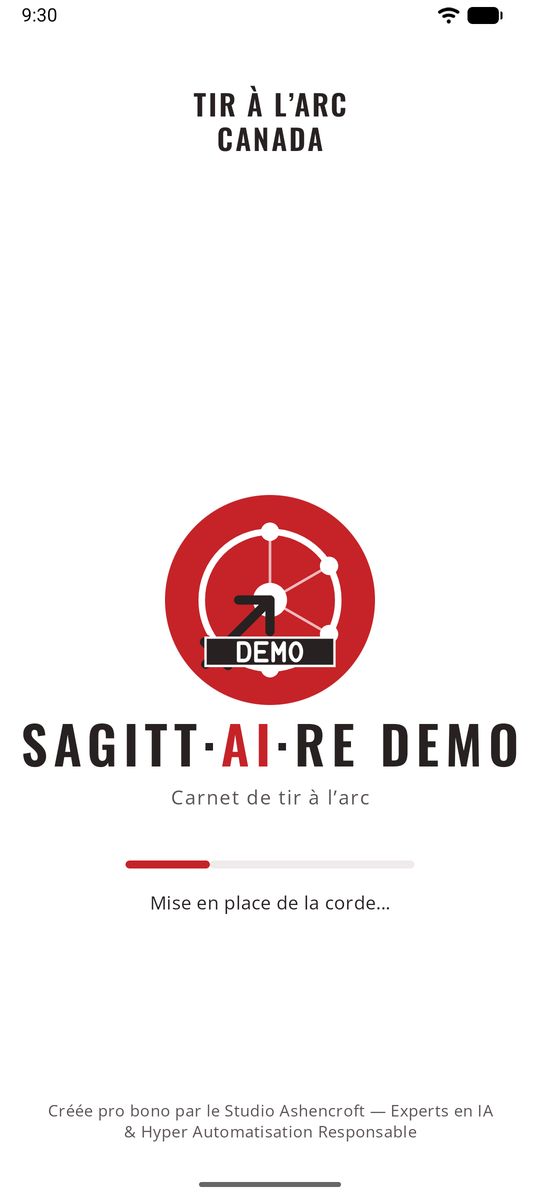
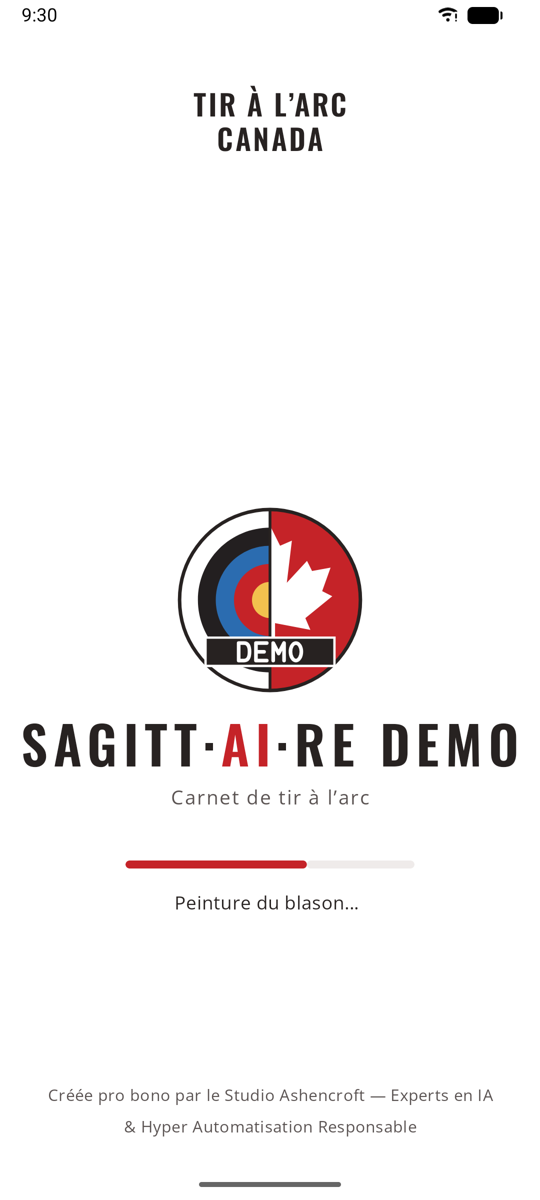
Update the sagitt·AI·re site from the app repository at 5aeb2c3

diff --git a/sagittaire/docs/icon.fr.md b/sagittaire/docs/icon.fr.md
@@ -1,6 +1,6 @@
 # L'icône
 
-L'icône d'aujourd'hui est rouge Tir à l'arc Canada : un anneau de cible avec quatre neurones reliés au centre (l'IA), et le signe du Sagittaire, dont la flèche se plante dans le centre. Avant elle, l'application avait une cible de bois sculptée, à la manière nordique.
+L'icône d'aujourd'hui est moitié cible, moitié feuille d'érable : un cercle dont la moitié gauche est une cible World Archery et la moitié droite une feuille d'érable blanche sur le rouge de Tir à l'arc Canada. Avant elle, il y a eu un symbole rouge avec des neurones et le signe du Sagittaire, et une cible de bois sculptée, à la manière nordique.
 
 ## Son évolution
 
@@ -25,24 +25,28 @@ L'icône d'aujourd'hui est rouge Tir à l'arc Canada : un anneau de cible avec 
 ![L'icône d'aujourd'hui : sur le rouge de Tir à l'arc Canada, un anneau de cible blanc avec quatre neurones reliés au centre, et le signe du Sagittaire en noir, dont la flèche finit dans le centre blanc.](images/icons/5-archery-canada.png){ width="180" }
 <figcaption><b>5. Tir à l'arc Canada.</b> sagitt·AI·re devient l'application de Tir à l'arc Canada : un nouveau symbole, dans son rouge.</figcaption>
 </figure>
+<figure markdown>
+![L'icône d'aujourd'hui : un cercle dont la moitié gauche est une cible (blanc, noir, bleu, rouge et or) et la moitié droite une feuille d'érable blanche sur rouge.](images/icons/6-target-leaf.png){ width="180" }
+<figcaption><b>6. Cible et feuille d'érable.</b> Le tir à l'arc et le Canada, moitié-moitié, qui se rejoignent au milieu.</figcaption>
+</figure>
 </div>
 
 ## L'icône d'aujourd'hui
 
-- **L'anneau de cible**, pour le tir à l'arc.
-- **Quatre neurones** sur l'anneau, reliés au centre : l'IA qui lit votre cible.
-- **Le signe du Sagittaire** ♐, l'archer du zodiaque, qui donne son nom à l'application ; sa flèche finit dans le centre.
-- **Le rouge de Tir à l'arc Canada** derrière, du blanc et du noir pour le symbole. L'écran de lancement est blanc, comme le site de Tir à l'arc Canada.
+- **La moitié gauche** est une cible World Archery : blanc, noir, bleu, rouge et or.
+- **La moitié droite** est une feuille d'érable blanche sur le rouge de Tir à l'arc Canada.
+- Elles se rejoignent sur la ligne du milieu : la cible et la feuille forment un seul cercle.
+- **Un fond blanc**, comme le site de Tir à l'arc Canada, et l'écran de lancement est blanc aussi.
 
 ## Les variantes
 
 <div class="shots" markdown>
 <figure markdown>
-![L'icône thématique d'une seule couleur, teintée par Android selon le fond d'écran.](images/icons/5-archery-canada-themed.png){ width="180" }
+![L'icône thématique d'une seule couleur, teintée par Android selon le fond d'écran.](images/icons/6-target-leaf-themed.png){ width="180" }
 <figcaption><b>Icône thématique.</b> Une seule couleur, teintée par Android 13 et plus selon votre fond d'écran.</figcaption>
 </figure>
 <figure markdown>
-![L'icône de l'édition démo : l'icône rouge avec un bandeau DEMO noir.](images/icons/5-archery-canada-demo.png){ width="180" }
+![L'icône de l'édition démo : la cible et la feuille avec un bandeau DEMO noir.](images/icons/6-target-leaf-demo.png){ width="180" }
 <figcaption><b>sagitt·AI·re Demo.</b> Un bandeau DEMO, pour ne pas la confondre avec la vraie application.</figcaption>
 </figure>
 </div>

diff --git a/sagittaire/docs/icon.de.md b/sagittaire/docs/icon.de.md
@@ -1,6 +1,6 @@
 # Das App-Symbol { #the-app-icon }
 
-Das heutige Symbol ist rot wie Archery Canada: ein Scheibenring mit vier Neuronen, die mit der Mitte verbunden sind (die KI), und das Zeichen des Schützen, dessen Pfeil in der Mitte landet. Davor hatte die App eine geschnitzte Holzscheibe im nordischen Stil.
+Das heutige Symbol ist halb Scheibe, halb Ahornblatt: ein Kreis, dessen linke Hälfte eine World-Archery-Scheibe ist und dessen rechte Hälfte ein weißes Ahornblatt auf dem Rot von Archery Canada. Davor gab es ein rotes Zeichen mit Neuronen und dem Zeichen des Schützen und eine geschnitzte Holzscheibe im nordischen Stil.
 
 ## Wie es entstand { #how-it-evolved }
 
@@ -25,24 +25,28 @@ Das heutige Symbol ist rot wie Archery Canada: ein Scheibenring mit vier Neurone
 ![Das heutige Symbol: auf dem Rot von Archery Canada ein weißer Scheibenring mit vier Neuronen, die mit der Mitte verbunden sind, und das Zeichen des Schützen in Schwarz, dessen Pfeil in der weißen Mitte endet.](images/icons/5-archery-canada.png){ width="180" }
 <figcaption><b>5. Archery Canada.</b> sagitt·AI·re wird die App von Archery Canada: ein neues Zeichen, in ihrem Rot.</figcaption>
 </figure>
+<figure markdown>
+![Das heutige Symbol: ein Kreis, links eine halbe Scheibe (Weiß, Schwarz, Blau, Rot und Gold), rechts ein halbes weißes Ahornblatt auf Rot.](images/icons/6-target-leaf.png){ width="180" }
+<figcaption><b>6. Scheibe und Ahornblatt.</b> Bogenschießen und Kanada, halb und halb, die sich in der Mitte treffen.</figcaption>
+</figure>
 </div>
 
 ## Das heutige Symbol { #todays-icon }
 
-- **Der Scheibenring** steht für das Bogenschießen.
-- **Vier Neuronen** auf dem Ring, mit der Mitte verbunden: die KI, die deine Scheibe liest.
-- **Das Zeichen des Schützen** ♐, des Bogenschützen im Tierkreis, nach dem die App heißt; sein Pfeil endet in der Mitte.
-- **Das Rot von Archery Canada** dahinter, Weiß und Schwarz für das Zeichen. Der Startbildschirm ist weiß, wie die Website von Archery Canada.
+- **Die linke Hälfte** ist eine World-Archery-Scheibe: Weiß, Schwarz, Blau, Rot und Gold.
+- **Die rechte Hälfte** ist ein weißes Ahornblatt auf dem Rot von Archery Canada.
+- Sie treffen sich auf der Mittellinie, sodass Scheibe und Blatt einen Kreis bilden.
+- **Ein weißer Hintergrund**, wie die Website von Archery Canada, und auch der Startbildschirm ist weiß.
 
 ## Varianten { #variants }
 
 <div class="shots" markdown>
 <figure markdown>
-![Das einfarbige Designsymbol, von Android passend zum Hintergrundbild eingefärbt.](images/icons/5-archery-canada-themed.png){ width="180" }
+![Das einfarbige Designsymbol, von Android passend zum Hintergrundbild eingefärbt.](images/icons/6-target-leaf-themed.png){ width="180" }
 <figcaption><b>Designsymbol.</b> Einfarbig, von Android 13+ passend zu deinem Hintergrundbild eingefärbt.</figcaption>
 </figure>
 <figure markdown>
-![Das Symbol der Demo-Ausgabe: das rote Symbol mit einem schwarzen DEMO-Banner.](images/icons/5-archery-canada-demo.png){ width="180" }
+![Das Symbol der Demo-Ausgabe: Scheibe und Blatt mit einem schwarzen DEMO-Banner.](images/icons/6-target-leaf-demo.png){ width="180" }
 <figcaption><b>sagitt·AI·re Demo.</b> Ein DEMO-Banner, damit sie nicht mit der echten App verwechselt werden kann.</figcaption>
 </figure>
 </div>

diff --git a/sagittaire/docs/icon.es.md b/sagittaire/docs/icon.es.md
@@ -1,6 +1,6 @@
 # El icono de la app { #the-app-icon }
 
-El icono de hoy es rojo Archery Canada: un anillo de diana con cuatro neuronas unidas a su centro (la IA), y el signo de Sagitario, cuya flecha acaba en el centro. Antes, la app tenía una diana de madera tallada al estilo nórdico.
+El icono de hoy es media diana y media hoja de arce: un círculo cuya mitad izquierda es una diana World Archery y cuya mitad derecha es una hoja de arce blanca sobre el rojo de Archery Canada. Antes hubo un símbolo rojo con neuronas y el signo de Sagitario, y una diana de madera tallada al estilo nórdico.
 
 ## Cómo evolucionó { #how-it-evolved }
 
@@ -25,24 +25,28 @@ El icono de hoy es rojo Archery Canada: un anillo de diana con cuatro neuronas u
 ![El icono de hoy: sobre el rojo de Archery Canada, un anillo de diana blanco con cuatro neuronas unidas al centro, y el signo de Sagitario en negro, cuya flecha termina en el centro blanco.](images/icons/5-archery-canada.png){ width="180" }
 <figcaption><b>5. Archery Canada.</b> sagitt·AI·re pasa a ser la app de Archery Canada: un nuevo símbolo, en su rojo.</figcaption>
 </figure>
+<figure markdown>
+![El icono de hoy: un círculo, a la izquierda media diana (blanco, negro, azul, rojo y oro), a la derecha media hoja de arce blanca sobre rojo.](images/icons/6-target-leaf.png){ width="180" }
+<figcaption><b>6. Diana y hoja de arce.</b> El tiro con arco y Canadá, mitad y mitad, que se unen en el centro.</figcaption>
+</figure>
 </div>
 
 ## El icono de hoy { #todays-icon }
 
-- **El anillo de la diana**, el tiro con arco.
-- **Cuatro neuronas** en el anillo, unidas al centro: la IA que lee tu diana.
-- **El signo de Sagitario** ♐, el arquero del zodiaco, que da nombre a la app; su flecha termina en el centro.
-- **El rojo de Archery Canada** detrás, blanco y negro para el símbolo. La pantalla de arranque es blanca, como el sitio web de Archery Canada.
+- **La mitad izquierda** es una diana World Archery: blanco, negro, azul, rojo y oro.
+- **La mitad derecha** es una hoja de arce blanca sobre el rojo de Archery Canada.
+- Se unen en la línea central, así que la diana y la hoja forman un solo círculo.
+- **Un fondo blanco**, como el sitio web de Archery Canada; la pantalla de arranque también es blanca.
 
 ## Variantes { #variants }
 
 <div class="shots" markdown>
 <figure markdown>
-![El icono temático de un solo color, teñido por Android para combinar con el fondo de pantalla.](images/icons/5-archery-canada-themed.png){ width="180" }
+![El icono temático de un solo color, teñido por Android para combinar con el fondo de pantalla.](images/icons/6-target-leaf-themed.png){ width="180" }
 <figcaption><b>Icono temático.</b> Un solo color, teñido por Android 13+ para combinar con tu fondo de pantalla.</figcaption>
 </figure>
 <figure markdown>
-![El icono de la edición demo: el icono rojo con una banda DEMO negra.](images/icons/5-archery-canada-demo.png){ width="180" }
+![El icono de la edición demo: la diana y la hoja con una banda DEMO negra.](images/icons/6-target-leaf-demo.png){ width="180" }
 <figcaption><b>sagitt·AI·re Demo.</b> Una banda DEMO, para que no se confunda con la app real.</figcaption>
 </figure>
 </div>

diff --git a/sagittaire/docs/icon.md b/sagittaire/docs/icon.md
@@ -1,6 +1,6 @@
 # The app icon
 
-Today's icon is Archery Canada red: a target ring with four neurons linked to its centre (the AI), and the Sagittarius sign, whose arrow lands in the bullseye. Before it, the app had a carved wooden target, Norse style.
+Today's icon is half a target and half a maple leaf: a circle whose left half is a World Archery target and whose right half is a white maple leaf on Archery Canada red. Before it came a red mark with neurons and the Sagittarius sign, and a carved wooden target, Norse style.
 
 ## How it evolved
 
@@ -25,24 +25,28 @@ Today's icon is Archery Canada red: a target ring with four neurons linked to it
 ![Today's icon: on Archery Canada red, a white target ring with four neurons linked to the centre, and the Sagittarius sign in ink, its arrow ending in the white bullseye.](images/icons/5-archery-canada.png){ width="180" }
 <figcaption><b>5. Archery Canada.</b> sagitt·AI·re becomes Archery Canada's app: a new mark, in its red.</figcaption>
 </figure>
+<figure markdown>
+![Today's icon: a circle, its left half a target (white, black, blue, red and gold), its right half a white maple leaf on red.](images/icons/6-target-leaf.png){ width="180" }
+<figcaption><b>6. Target and maple leaf.</b> Archery and Canada, half and half, meeting in the middle.</figcaption>
+</figure>
 </div>
 
 ## Today's icon
 
-- **The target ring**, the archery.
-- **Four neurons** on the ring, linked to the centre: the AI that reads your target.
-- **The Sagittarius sign** ♐, the archer of the zodiac, which gives the app its name; its arrow ends in the bullseye.
-- **Archery Canada red** behind it, white and ink for the mark. The launch screen is white, like Archery Canada's website.
+- **The left half** is a World Archery target: white, black, blue, red and gold.
+- **The right half** is a white maple leaf on Archery Canada red.
+- They meet on the centre line, so the target and the leaf make one circle.
+- **A white background**, like Archery Canada's website, and the launch screen is white too.
 
 ## Variants
 
 <div class="shots" markdown>
 <figure markdown>
-![The one-colour themed icon: the ring, neurons and Sagittarius sign in a single colour, tinted by Android to match the wallpaper.](images/icons/5-archery-canada-themed.png){ width="180" }
+![The one-colour themed icon: the target's rings as lines on the left, the leaf cut out of the right half, tinted by Android to match the wallpaper.](images/icons/6-target-leaf-themed.png){ width="180" }
 <figcaption><b>Themed icon.</b> One colour, tinted by Android 13+ to match your wallpaper.</figcaption>
 </figure>
 <figure markdown>
-![The demo edition icon: the red icon with an ink DEMO banner.](images/icons/5-archery-canada-demo.png){ width="180" }
+![The demo edition icon: the target and leaf with an ink DEMO banner.](images/icons/6-target-leaf-demo.png){ width="180" }
 <figcaption><b>sagitt·AI·re Demo.</b> A DEMO banner, so it can't be confused with the real app.</figcaption>
 </figure>
 </div>
